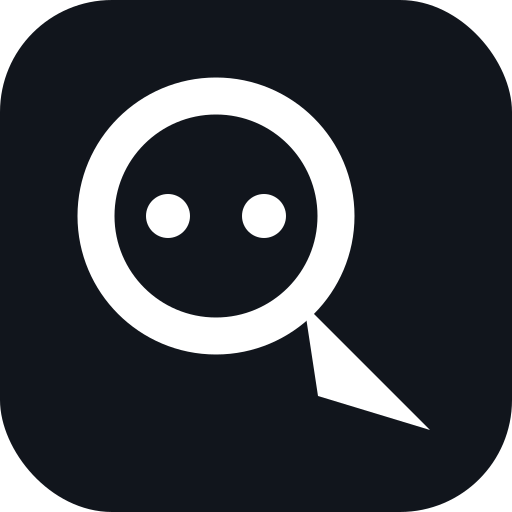
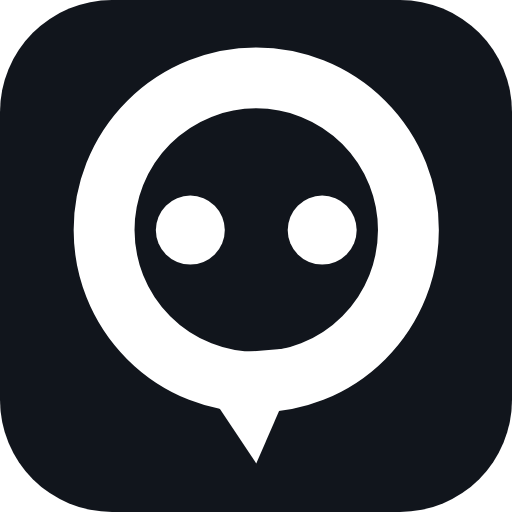
Značka na webe a v OG obrázkoch: sedem kópií, nie dve
Hľadanie po repozitári našlo sedem miest so starou kresbou, nie dve,
ako som hlásil. Okrem components/Logo.js a lib/og.js ešte app/icon.svg
(vlastná kresba vo svojej 32 mriežke) a štyri rastrové súbory z júna,
ktoré negeneruje žiadny skript: public/icon-192.png, public/icon-512.png,
app/apple-icon.png a app/favicon.ico.

A potom tri kópie tej istej OG grafiky 1200x630: public/og.png,
app/opengraph-image.png a app/twitter-image.png. Na twitter-image som
prišiel až po tom, čo som si myslel, že som hotový - presne ten prípad,
pred ktorým varuje záhlavie ContineoMark.tsx.

Na tej OG grafike stojí za zmienku vecná vec. Nadpis hovorí "Opýtajte
sa. Nehľadajte." a vedľa neho bola ako vodoznak nakreslená lupa. Bola
to naša vlastná značka zväčšená na 470 px, ale čítala sa ako lupa - čiže
obrázok, ktorý reprezentuje web pri každom zdieľaní, popieral vetu
vedľa seba. Po prekreslení chvostíka to sedí.

Rastre som prekreslil z novej app/icon.svg, ktorá je odvodená priamo
zo 48 mriežky cez transform, nie nakreslená znova - aby sa nemohla
rozísť. favicon.ico nesie 16, 32 a 48 px ako predtým. OG grafiku som
zložil nanovo v rovnakej kompozícii, s Inter z @fontsource/inter, čiže
s tým istým fontom, aký používa generátor v lib/og.js.

Dynamické OG obrázky pre [lang] routy generuje lib/og.js za behu a tie
nemali vodoznak vôbec; opravená je tam len malá značka vľavo hore.

Poznámka: public/og.png sa v kóde nikde neodkazuje - je to mŕtvy súbor
[…]

diff --git a/web/components/Logo.js b/web/components/Logo.js
@@ -1,11 +1,21 @@
 export default function Logo({ size = 30, withWordmark = true }) {
   return (
     <span style={{ display: "inline-flex", alignItems: "center", gap: 10, color: "var(--ink)" }}>
+      {/*
+        Značka je zhodná s `app/src/components/ContineoMark.tsx` v intranete.
+        Zdieľať sa nedá — sú to dve samostatné aplikácie — takže kópia tu
+        zostane. Pri zmene kresby treba prejsť obe, plus `lib/og.js`
+        a `app/icon.svg`; zoznam je v komente tam.
+
+        Chvostík visí **zvisle dole**, nie šikmo vpravo: kružnica s ručkou pod
+        45° je silueta lupy, a to je pri značke, ktorá má hovoriť „opýtajte sa,
+        nehľadajte", presne opačný odkaz.
+      */}
       <svg width={size} height={size} viewBox="0 0 48 48" fill="none" aria-hidden="true">
-        <circle cx="18" cy="18" r="13" stroke="currentColor" strokeWidth="4" />
-        <circle cx="13" cy="18" r="2.3" fill="currentColor" />
-        <circle cx="23" cy="18" r="2.3" fill="currentColor" />
-        <path d="M28 27 L41 41 L29 38 Z" fill="currentColor" />
+        <circle cx="24" cy="20" r="15" stroke="currentColor" strokeWidth="6" />
+        <circle cx="17.5" cy="20" r="3.4" fill="currentColor" />
+        <circle cx="30.5" cy="20" r="3.4" fill="currentColor" />
+        <path d="M17 32.5 L24 43 L29 31.5 Z" fill="currentColor" />
       </svg>
       {withWordmark && (
         <span style={{ fontWeight: 700, fontSize: size >= 30 ? 18 : 16, letterSpacing: "-0.02em" }}>

diff --git a/web/lib/og.js b/web/lib/og.js
@@ -102,10 +102,10 @@ export async function ogObrazok(lang, stranka) {
         {/* logo */}
         <div style={{ display: "flex", alignItems: "center", gap: 16 }}>
           <svg width="46" height="46" viewBox="0 0 48 48" fill="none">
-            <circle cx="18" cy="18" r="13" stroke="#eef1f5" strokeWidth="4" />
-            <circle cx="13" cy="18" r="2.3" fill="#eef1f5" />
-            <circle cx="23" cy="18" r="2.3" fill="#eef1f5" />
-            <path d="M28 27 L41 41 L29 38 Z" fill="#eef1f5" />
+            <circle cx="24" cy="20" r="15" stroke="#eef1f5" strokeWidth="6" />
+            <circle cx="17.5" cy="20" r="3.4" fill="#eef1f5" />
+            <circle cx="30.5" cy="20" r="3.4" fill="#eef1f5" />
+            <path d="M17 32.5 L24 43 L29 31.5 Z" fill="#eef1f5" />
           </svg>
           <div style={{ fontSize: 30, fontWeight: 700, letterSpacing: "-0.02em" }}>Contineo</div>
         </div>
